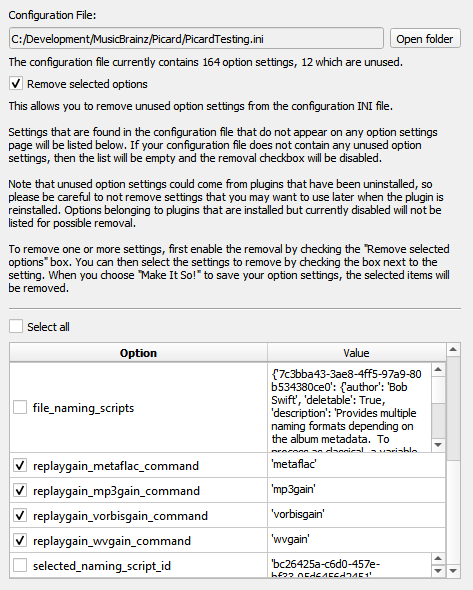
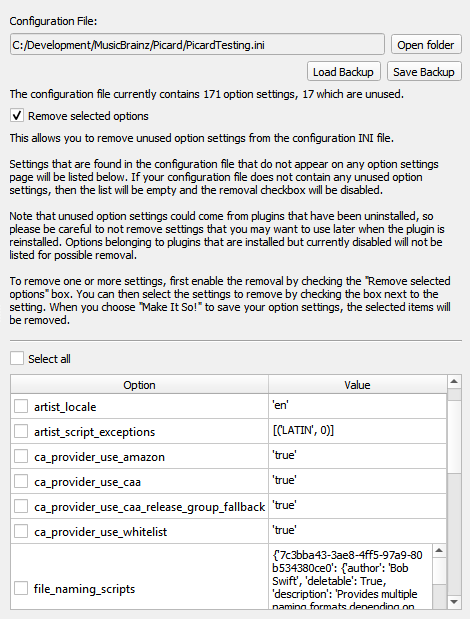
Add saving and restoring configuration file options

diff --git a/config/options_maintenance.rst b/config/options_maintenance.rst
@@ -10,9 +10,19 @@
 
    This displays the path and file name of the configuration INI file currently used by
    Picard. This file contains all of your settings and preferences, and the format of the
-   file is consistent across operating systems. There is also a :guilabel:`Open Folder`
-   button to open the location in your system's file browser, so that you can easily make
-   a backup copy of the file or to copy the settings for use on a different computer.
+   file is consistent across operating systems.
+
+   The :guilabel:`Save Backup` button allows you to create a backup copy of the current
+   configuration file.  This can be used to easily copy the settings for use on a different
+   computer, or to provide a snapshot for easy recovery in the event that the configuration
+   becomes corrupted or you want to undo configuration changes.  It also allows you to have
+   different configurations available without using profiles.
+
+   The :guilabel:`Load Backup` button allows you to replace the current configuration file
+   with a backup created earlier.  Loading a backup configuration file will replace all of
+   the current configuration settings.  Prior to loading the file, Picard will automatically
+   save a backup copy of the current file.
+
 
 **Configuration File Cleanup**
 
